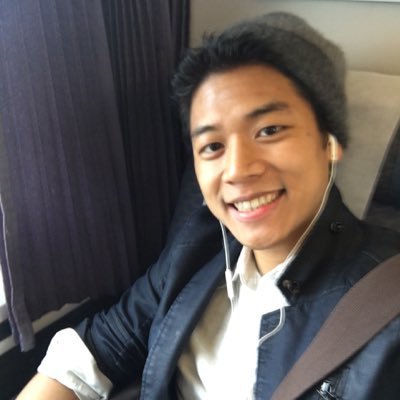
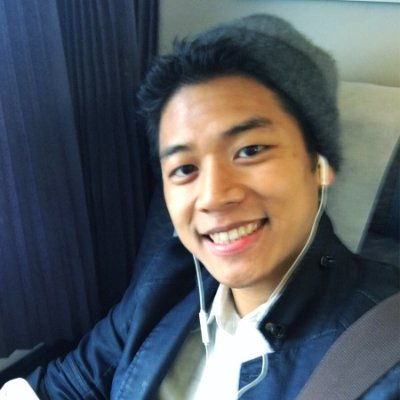
Copy change at main landing and upgrading picture

diff --git a/_includes/welcomeNav.php b/_includes/welcomeNav.php
@@ -11,7 +11,7 @@
 
 	<div id="welcome">
 	  <p><b>Terry Bu</b></p>
-	  <p>Programmer, Meetup Organizer, Writer, Startup Enthuasiast, Aspiring Entrepreneur</p>
+	  <p>Meetup Organizer, Writer, Software Programmer, Startup Enthuasiast, Aspiring Entrepreneur</p>
 	  <p>Other Skills: Stand-Up Comedy</p>
 	  </p>
 	</div>
